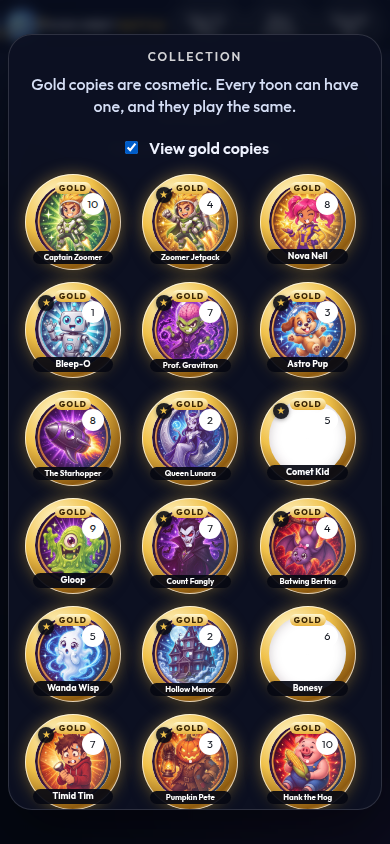
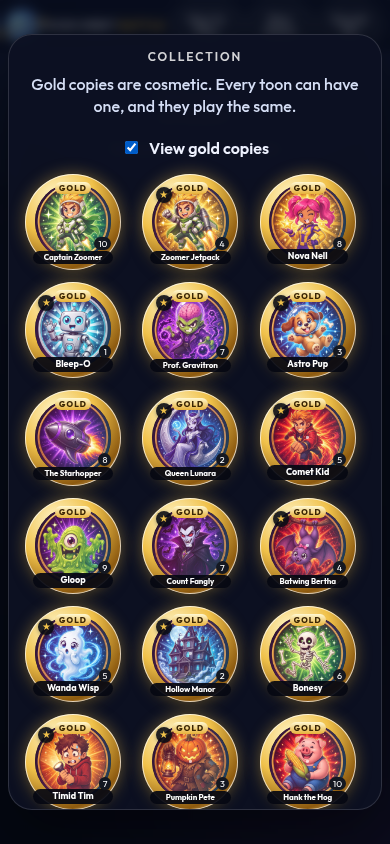
Fix blank collection faces and the gold preview
Keep a dark color shimmer behind card art until the image paints, and set the preview and point badge so the portrait stays visible.

diff --git a/style.css b/style.css
@@ -56,15 +56,14 @@ body::before { content: ""; position: fixed; inset: 0; pointer-events: none; opa
 .gem { display: inline-block; width: 10px; height: 10px; border-radius: 50%; margin-right: 4px; vertical-align: -1px; box-shadow: 0 0 0 1px rgba(0,0,0,.35); }
 .tv { min-height: 330px; } #inspector { background: rgba(0,0,0,.22); border: 1px solid rgba(255,255,255,.08); border-radius: 16px; min-height: 290px; padding: 10px; }
 .tv-idle { color: #9eb0d8; font-size: 14px; font-weight: 500; text-align: center; margin: 90px 16px; }
-.tv-card { border: 1px solid color-mix(in srgb, var(--cc) 55%, transparent); border-radius: 18px; background: rgba(255,255,255,.94); color: #1b2030; padding: 10px; text-align: center; }
-.tv-art { width: 128px; height: 128px; margin: 4px auto; border-radius: 50%; border: 6px solid transparent;
-  background: linear-gradient(#fff, #fff) padding-box, linear-gradient(160deg, color-mix(in srgb, var(--cc) 40%, #fff), var(--cc), color-mix(in srgb, var(--cc) 55%, #111)) border-box;
-  box-shadow: inset 0 0 14px rgba(0,0,0,.16), 0 8px 18px rgba(0,0,0,.12); overflow: hidden; }
+.tv-card { border: 1px solid rgba(255,255,255,.12); border-radius: 18px; background: #141824; color: #eef2ff; padding: 14px; text-align: center; overflow: hidden; }
+.tv-art { width: min(180px, 100%); aspect-ratio: 1; height: auto; margin: 0 auto 8px; border-radius: 50%; border: 3px solid color-mix(in srgb, var(--cc) 75%, #fff); box-sizing: border-box;
+  background: #10131c; box-shadow: 0 0 0 4px rgba(0,0,0,.4); overflow: hidden; }
 .tv-art svg { width: 100%; height: 100%; display: block; }
-.tv-name { font: 700 16px/1.2 "Outfit", system-ui, sans-serif; margin-top: 8px; } .tv-meta { font-size: 12px; font-weight: 600; }
-.tv-group { font-size: 12px; color: #5c657a; } .tv-feat { font-size: 12px; color: #6a7388; }
-.tv-power { font-size: 12px; margin-top: 6px; background: #fff7df; border-radius: 10px; padding: 6px; }
-.tv-live { font-size: 12px; margin-top: 6px; background: #eef4ff; border-radius: 10px; padding: 6px; }
+.tv-name { font: 700 16px/1.2 "Outfit", system-ui, sans-serif; margin-top: 8px; color: #fff; } .tv-meta { font-size: 12px; font-weight: 600; color: #d5def5; }
+.tv-group { font-size: 12px; color: #b7c4de; } .tv-feat { font-size: 12px; color: #b7c4de; }
+.tv-power { font-size: 12px; margin-top: 6px; background: rgba(255,255,255,.08); color: #eef2ff; border-radius: 10px; padding: 6px; }
+.tv-live { font-size: 12px; margin-top: 6px; background: rgba(255,255,255,.08); color: #eef2ff; border-radius: 10px; padding: 6px; }
 .arena { background: radial-gradient(ellipse at 50% 42%, rgba(90, 130, 255, .16), transparent 62%), rgba(8, 14, 32, .4);
   border: 1px solid rgba(255,255,255,.1); border-radius: 28px; box-shadow: inset 0 0 80px rgba(80, 130, 255, .08), 0 16px 40px rgba(0,0,0,.2); padding: 12px; position: relative;
   display: flex; flex-direction: column; justify-content: center; }
@@ -104,11 +103,17 @@ body::before { content: ""; position: fixed; inset: 0; pointer-events: none; opa
   background: rgba(5, 8, 18, .92); border: 0; border-radius: 8px; padding: 2px 5px; white-space: normal;
   display: -webkit-box; -webkit-box-orient: vertical; -webkit-line-clamp: 2; overflow: hidden; }
 .cname.long { font-size: 9px; letter-spacing: -.01em; }
-.cart { position: absolute; inset: 10%; height: auto; border-radius: 50%; overflow: hidden; background: #fff; box-shadow: inset 0 0 12px rgba(0,0,0,.22); }
+.cart { position: absolute; inset: 10%; height: auto; border-radius: 50%; overflow: hidden;
+  background: linear-gradient(110deg, transparent 32%, rgba(255,255,255,.16) 50%, transparent 68%), radial-gradient(circle at 40% 35%, color-mix(in srgb, var(--cc, #6aa0ff) 62%, #12151f), #10131c);
+  background-size: 220% 100%, 100% 100%; animation: loadshimmer 1.15s ease-in-out infinite; }
+.cart.ready { animation: none; background: #10131c; }
+@keyframes loadshimmer { from { background-position: 120% 0, 0 0; } to { background-position: -120% 0, 0 0; } }
 .cart svg { width: 100%; height: 100%; display: block; }
-.cpts { position: absolute; z-index: 4; top: 20%; right: 18%; bottom: auto; width: 24px; height: 24px; border-radius: 50%; background: #fff; border: 0; color: #141821; }
-  box-shadow: 0 1px 4px rgba(0,0,0,.35), 0 0 0 2px var(--cc, #6aa0ff); font: 800 12px/24px "Outfit", system-ui, sans-serif; letter-spacing: -.04em; display: flex; align-items: center; justify-content: center; padding: 0; }
-.cpts.up { background: #d9ffc8; } .cpts.down { background: #ffd0c8; } .cpts.ko { background: #2a2a2a; color: #ff6b6b; }
+.cpts { position: absolute; z-index: 4; top: auto; bottom: 22%; right: 12%; width: auto; min-width: 14px; height: auto; padding: 2px 5px; border-radius: 999px; background: #141821; color: #fff; border: 0; }
+  box-shadow: 0 0 0 2px var(--cc, #6aa0ff); font: 800 10px/1 "Outfit", system-ui, sans-serif; letter-spacing: 0; display: flex; align-items: center; justify-content: center; }
+.cpts.up { background: #141821; color: #fff; box-shadow: 0 0 0 2px #7dff6b; }
+.cpts.down { background: #141821; color: #fff; box-shadow: 0 0 0 2px #ff8b7b; }
+.cpts.ko { background: #141821; color: #ffb4a8; box-shadow: 0 0 0 2px #ff4d4d; }
 .pstar { position: absolute; z-index: 4; left: 14%; top: 14%; width: 16px; height: 16px; border-radius: 50%; display: flex; align-items: center; justify-content: center;
   background: rgba(10, 12, 20, .9); color: #f0c14a; font-size: 10px; line-height: 1; box-shadow: 0 1px 4px rgba(0,0,0,.35); }
 .recolor { position: absolute; z-index: 3; left: 8%; top: 34%; width: 16%; height: 16%; border-radius: 50%; box-shadow: 0 0 0 1px rgba(0,0,0,.4); }
@@ -143,7 +148,7 @@ body::before { content: ""; position: fixed; inset: 0; pointer-events: none; opa
   box-shadow: inset 0 0 0 1px rgba(255,255,255,.25), 0 6px 12px rgba(0,0,0,.25); display: flex; align-items: center; justify-content: center; font: 700 15px/1 "Outfit", system-ui, sans-serif; }
 .stack.empty { background: rgba(255,255,255,.08); box-shadow: none; }
 .goalcard { position: relative; width: 74px; flex: none; } .goalcard .card { width: 74px; height: 74px; } .goalcard .cname { display: none; }
-.goalcard .cpts, .fan .cpts { width: 18px; height: 18px; font-size: 10px; line-height: 18px; }
+.goalcard .cpts, .fan .cpts { height: 13px; min-width: 13px; font-size: 8px; line-height: 13px; padding: 0 3px; }
 .goalcard.drawn { opacity: .5; }
 .goaltag { position: absolute; top: -7px; left: 0; right: 0; background: rgba(240, 193, 74, .95); color: #1c1404; font: 700 8px/1.2 "Outfit", system-ui, sans-serif; letter-spacing: .04em; text-align: center; border-radius: 999px; z-index: 4; padding: 1px 0; }
 .handbar { display: flex; align-items: center; gap: 12px; margin: 0 14px 14px; padding: 10px 14px; min-height: 124px;
@@ -206,7 +211,7 @@ body::before { content: ""; position: fixed; inset: 0; pointer-events: none; opa
   .btn.small { padding: 6px 7px; font-size: 11px; margin: 0 1px; }
   .cname { font-size: 9px; }
   .cname.long { font-size: 8px; }
-  .cpts { width: 22px; height: 22px; font-size: 11px; line-height: 22px; }
+  .cpts { width: auto; height: auto; min-width: 12px; font-size: 9px; line-height: 1; padding: 2px 4px; bottom: 20%; right: 10%; }
   .btn, .deckpick, .bcard, .handcard, .slot, .goalcard { touch-action: manipulation; }
   .btn { min-height: 44px; min-width: 44px; }
   .btn.small { min-height: 44px; }
@@ -254,18 +259,18 @@ body::before { content: ""; position: fixed; inset: 0; pointer-events: none; opa
   .bgrid { grid-template-columns: repeat(auto-fill, minmax(72px, 1fr)); }
   .go-num { font-size: 32px; }
   #preview:not(.hidden) {
-    display: block; position: fixed; inset: 0; z-index: 40; pointer-events: none;
+    display: block; position: fixed; inset: 0; z-index: 60; pointer-events: none;
     max-height: none; padding: 0; overflow: visible; background: transparent; border: 0; box-shadow: none; border-radius: 0;
   }
   .preview-backdrop { position: absolute; left: 0; right: 0; bottom: 0; top: 22%; background: rgba(4, 6, 16, .45); border: 0; margin: 0; padding: 0; min-height: 0; min-width: 0; border-radius: 0; pointer-events: none; }
   .preview-sheet {
     position: absolute; z-index: 1; left: 10px; right: 10px; bottom: calc(8px + env(safe-area-inset-bottom));
-    max-height: 168px; overflow: auto; padding: 12px; border-radius: 20px; pointer-events: auto;
+    max-height: 78vh; overflow: auto; padding: 16px; border-radius: 20px; pointer-events: auto;
     background: rgba(16, 20, 40, .98); border: 1px solid rgba(255,255,255,.14); box-shadow: 0 16px 40px rgba(0,0,0,.45);
   }
   .preview-close { min-height: 44px; min-width: 44px; float: right; }
-  #preview .tv-card { display: grid; grid-template-columns: 72px 1fr; gap: 8px; text-align: left; align-items: start; background: #fff; }
-  #preview .tv-art { grid-row: 1 / span 6; width: 72px; height: 72px; margin: 0; }
+  #preview .tv-card { display: block; background: transparent; border: 0; padding: 0 4px 4px; text-align: center; overflow: hidden; }
+  #preview .tv-art, #preview .tv-card.gold .tv-art { width: min(176px, 52vw); height: auto; aspect-ratio: 1; margin: 0 auto 8px; grid-row: auto; }
 }
 @media (max-width: 1099px) and (orientation: landscape) {
   .logo { font-size: 14px; }
@@ -300,13 +305,12 @@ body::before { content: ""; position: fixed; inset: 0; pointer-events: none; opa
 @keyframes twinkle { 50% { opacity: .2; } }
 .tv-art { position: relative; }
 .tv-art .cartimg { width: 100%; height: 100%; object-fit: cover; border-radius: 50%; }
-.tv-card.gold { border-color: #e8b23a; }
-.tv-card.gold .tv-art { width: 220px; height: 220px; border: none;
-  background: radial-gradient(circle at 32% 24%, #fff6cc, #f0c14a 42%, #8d5a10); box-shadow: 0 0 22px rgba(240, 193, 74, .5); }
+.tv-card.gold { border-color: rgba(240, 193, 74, .45); }
+.tv-card.gold .tv-art { border-color: #f0c14a; box-shadow: 0 0 0 4px rgba(0,0,0,.45), 0 0 16px rgba(240, 193, 74, .35); background: #10131c; }
 .goldtoggle { display: inline-flex; align-items: center; gap: 8px; font-weight: 600; margin: 4px 0 8px; }
 .cgrid { display: grid; grid-template-columns: repeat(auto-fill, minmax(96px, 1fr)); gap: 12px; max-width: 920px; margin: 8px auto 12px; }
 .ccard { cursor: pointer; min-height: 44px; }
 @media (prefers-reduced-motion: reduce) {
-  .holo, .spark { animation: none; }
+  .holo, .spark, .cart { animation: none; }
   .holo { opacity: .35; background-position: 40% 40%; }
 }

diff --git a/game.js b/game.js
@@ -51,7 +51,7 @@
   }
   function faceHTML(card, eager) {
     const src = 'assets/cards/' + encodeURIComponent(card.id) + '.webp';
-    return `<img class="cartimg" alt="" data-id="${card.id}" src="${src}" loading="${eager ? 'eager' : 'lazy'}" decoding="async" onerror="TOB_ART.useSvg(this)">`;
+    return `<img class="cartimg" alt="" data-id="${card.id}" src="${src}" loading="${eager ? 'eager' : 'lazy'}" decoding="async" onload="this.closest('.cart')&&this.closest('.cart').classList.add('ready')" onerror="TOB_ART.useSvg(this)">`;
   }
   function backHTML() { return `<div class="card back"><div class="backlogo"><span>TOON</span><b>ORBIT</b></div></div>`; }
 
@@ -418,7 +418,7 @@
         <div class="sb-title">Collection</div>
         <div class="tag">Gold copies are cosmetic. Every toon can have one, and they play the same.</div>
         <label class="goldtoggle"><input type="checkbox" id="goldView" ${collectionGold ? 'checked' : ''}> View gold copies</label>
-        <div class="cgrid">${cards.map(c => `<div class="ccard" data-cid="${c.id}">${cardHTML(c)}</div>`).join('')}</div>
+        <div class="cgrid">${cards.map(c => `<div class="ccard" data-cid="${c.id}">${cardHTML(c, null, true)}</div>`).join('')}</div>
         <div class="go-btns"><button class="btn" id="btnBack">BACK</button></div></div>`;
       $('#goldView').onchange = () => { collectionGold = $('#goldView').checked; draw(); };
       $('#btnBack').onclick = showDeckSelect;

diff --git a/art.js b/art.js
@@ -116,6 +116,8 @@
     const id = img && img.getAttribute && img.getAttribute('data-id');
     const card = root.TOB_CARDS && root.TOB_CARDS.CARDS[id];
     if (!card) { if (img) img.remove(); return; }
+    const cart = img.closest && img.closest('.cart');
+    if (cart) cart.classList.add('ready');
     const holder = document.createElement('div');
     holder.innerHTML = svg(card);
     if (holder.firstChild) img.replaceWith(holder.firstChild);
